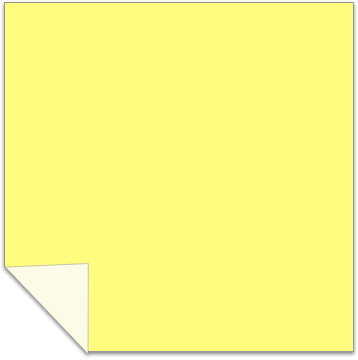
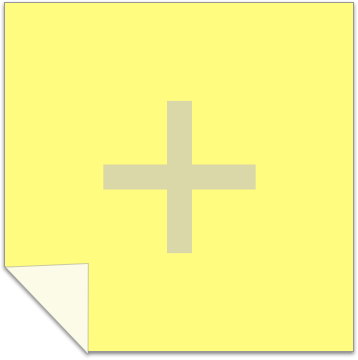
added some styles

Changed region(s): [[0.2765, 0.275, 0.7374, 0.7028]]

diff --git a/css/style.css b/css/style.css
@@ -8,29 +8,10 @@ body {
 	font-family: Helvetica, Verdana, Geneva, sans-serif
 }
 
-header {
-	padding-top:10px;
-	padding-left: 20px;
-	height:50px;
-	display:block;
-	background:white;
-	-webkit-box-shadow:0px 2px 5px gray;
-	-moz-box-shadow:0px 2px 5px gray;
-	box-shadow:0px 2px 5px gray;
-}
-
-
-h1 {
-	display:inline;
-	color:#F05A62;
-	padding:15px 10px 0px 0px;
-	font-size:210%;
-	text-transform:capitalize;
-}
 
 input[type="image"] {
 	float:right;
-	margin:5px 10px 0 0;
+	margin:25px 70px 0 0;
 }
 
 input[type="image"]:hover {

diff --git a/index.html b/index.html
@@ -7,10 +7,7 @@
 	  <link rel="stylesheet" href="http://ajax.googleapis.com/ajax/libs/jqueryui/1.8.3/themes/base/jquery-ui.css" type="text/css" media="all" />
 	</head>
 	<body>
-	  <header>
-	  	<h1>Power Mapping</h1>
-	    <input type="image" src="images/post-it.png" width="40px" id="btn-addNote"/>
-	  </header>
+		<input type="image" src="images/post-it.png" width="40px" id="btn-addNote"/>
 		<div id="board">
 		</div>
 		<script type="text/javascript" src="https://ajax.googleapis.com/ajax/libs/jquery/1.4.3/jquery.min.js"></script>
